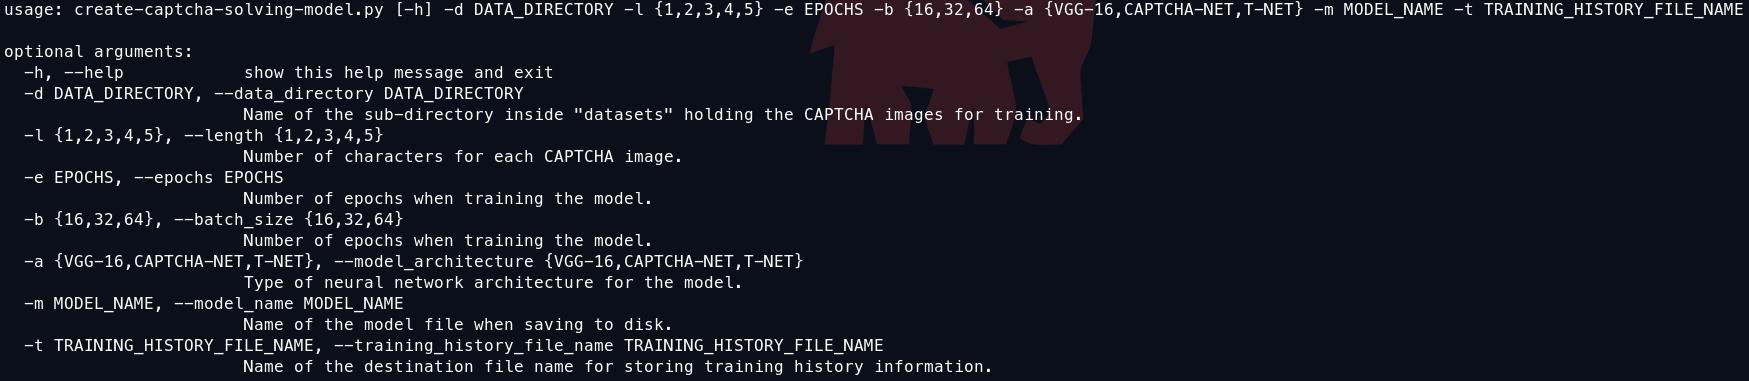
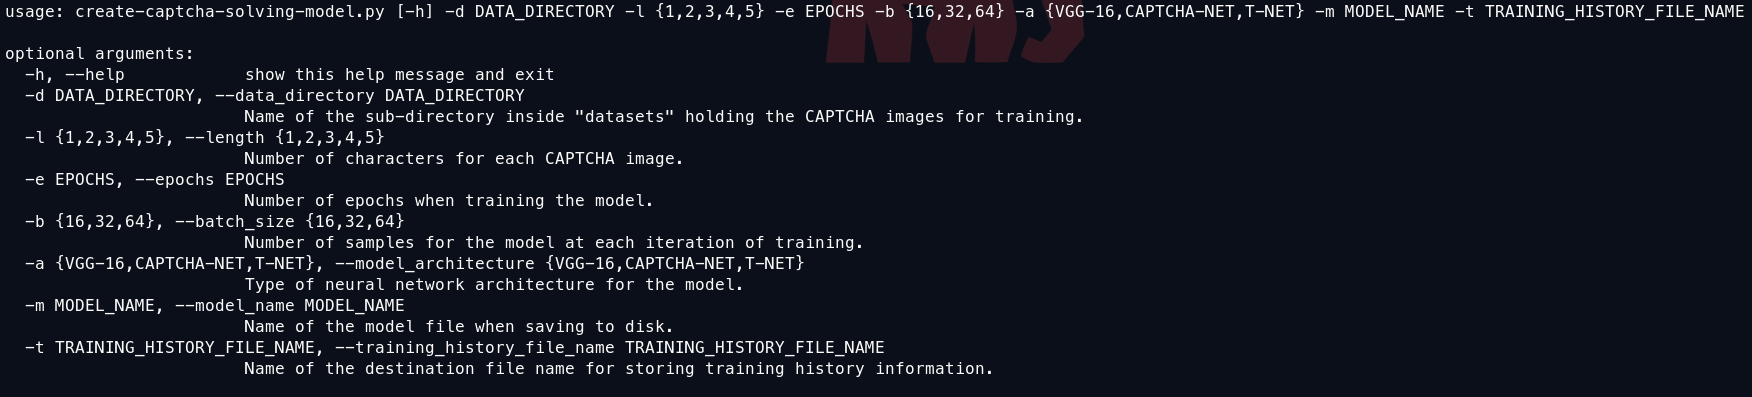
fixed typo and replaced screenshot

Changed region(s): [[0.0, 0.0, 1.0, 0.9816]]

diff --git a/model-generation-scripts/create-captcha-solving-model.py b/model-generation-scripts/create-captcha-solving-model.py
@@ -98,7 +98,7 @@ def parse_command_line_arguments():
                         help='Number of epochs when training the model.')
 
     parser.add_argument('-b', '--batch_size', type=int, choices=[16, 32, 64], nargs=1, required=True,
-                        help='Number of epochs when training the model.')
+                        help='Number of samples for the model at each iteration of training.')
 
     parser.add_argument('-a', '--model_architecture', 
                         choices=['VGG-16', 'CAPTCHA-NET', 'T-NET'], nargs=1, required=True,
